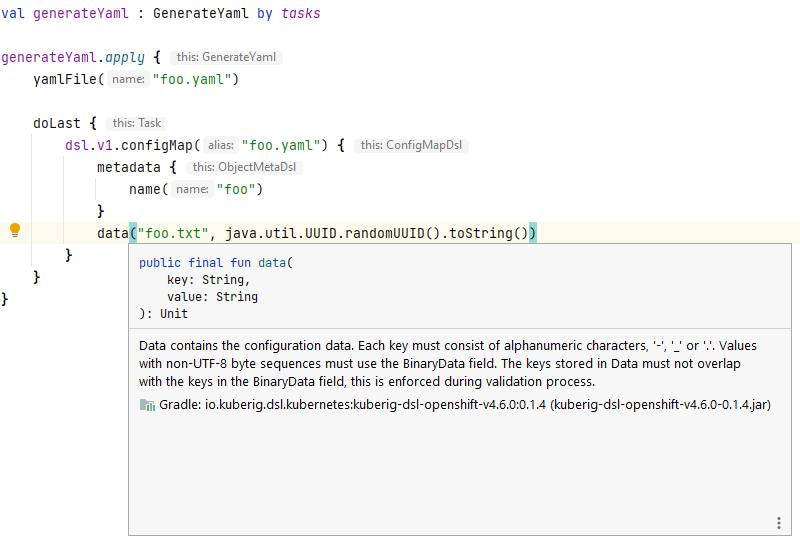
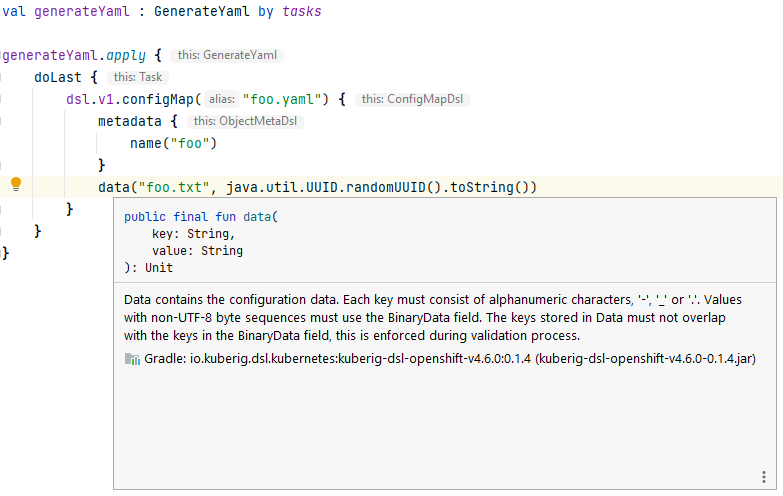
yamlFiles removed

diff --git a/buildSrc/src/main/kotlin/io/github/guai/gr8s/GenerateYaml.kt b/buildSrc/src/main/kotlin/io/github/guai/gr8s/GenerateYaml.kt
@@ -6,7 +6,6 @@ import io.kuberig.dsl.model.BasicResource
 import kinds.DslKindsRoot
 import org.gradle.api.DefaultTask
 import org.gradle.api.tasks.Internal
-import org.gradle.api.tasks.TaskAction
 import org.gradle.kotlin.dsl.getByType
 import java.io.File
 import java.io.FileWriter
@@ -14,7 +13,6 @@ import java.io.Writer
 import java.nio.charset.Charset
 import java.util.function.Supplier
 
-//@UntrackedTask(because = "Don't call it if you don't need it")
 open class GenerateYaml : DefaultTask(), DslResourceSink {
 
 	private val extension: Gr8sPluginExtension = project.extensions.getByType()
@@ -26,7 +24,6 @@ open class GenerateYaml : DefaultTask(), DslResourceSink {
 		outputs.upToDateWhen { false }
 	}
 
-	open fun yamlFile(name: String, file: File? = null): File = extension.yamlFile(name, file)
 
 	@get:Internal
 	val dsl by lazy { DslKindsRoot(this) }
@@ -35,20 +32,13 @@ open class GenerateYaml : DefaultTask(), DslResourceSink {
 
 	fun dsl(writerSupplier: Supplier<Writer>, block: DslKindsRoot.() -> Unit = {}) = DslKindsRoot(YamlOutputSink(writerSupplier)).also { block(it) }
 
-	fun dsl(yamlFile: File, block: DslKindsRoot.() -> Unit = {}) = dsl({ yamlFile.appendWriter() }, block)
-
 	private fun File.appendWriter(charset: Charset = Charsets.UTF_8): Writer = FileWriter(this, charset, true).buffered()
 
 	override fun <T : BasicResource> add(resource: DslResource<T>) {
-		val yamlFile = extension.yamlFiles[resource.alias]
-				?: error("declare yamlFile(\"${resource.alias}\") in the configuration block first")
-		yamlFile.appendWriter().use {
+		val file = extension.yamlDir.also { it.mkdirs() }.resolve(resource.alias)
+		val writer = if (extension.yamlFiles.add(file)) file.writer() else file.appendWriter()
+		writer.use {
 			it.write(objectMapper.writeValueAsString(resource.dslType.toValue()))
 		}
-	}
-
-	@TaskAction
-	fun doWork() {
-		extension.deleteYamlFiles
 	}
 }

diff --git a/buildSrc/src/main/kotlin/io/github/guai/gr8s/Gr8sPluginExtension.kt b/buildSrc/src/main/kotlin/io/github/guai/gr8s/Gr8sPluginExtension.kt
@@ -6,18 +6,5 @@ import java.io.File
 open class Gr8sPluginExtension(project: Project) {
 	var yamlDir: File = project.buildDir.resolve("yaml")
 
-	internal val yamlFiles: MutableMap<String, File> = hashMapOf()
-
-	fun yamlFile(name: String, file: File?): File {
-		return (file ?: yamlDir.resolve(name)).also {
-			yamlFiles[name] = it
-		}
-	}
-
-	internal val deleteYamlFiles: Unit by lazy {
-		yamlDir.mkdirs()
-		yamlFiles.values.forEach {
-			if (it.exists()) it.delete()
-		}
-	}
+	internal val yamlFiles: MutableSet<File> = hashSetOf()
 }

diff --git a/README.md b/README.md
@@ -15,8 +15,6 @@ plugins {
 val generateYaml : GenerateYaml by tasks
 
 generateYaml.apply {
-	yamlFile("foo.yaml")
-
 	doLast {
 		dsl.v1.configMap("foo.yaml") {
 			metadata {
